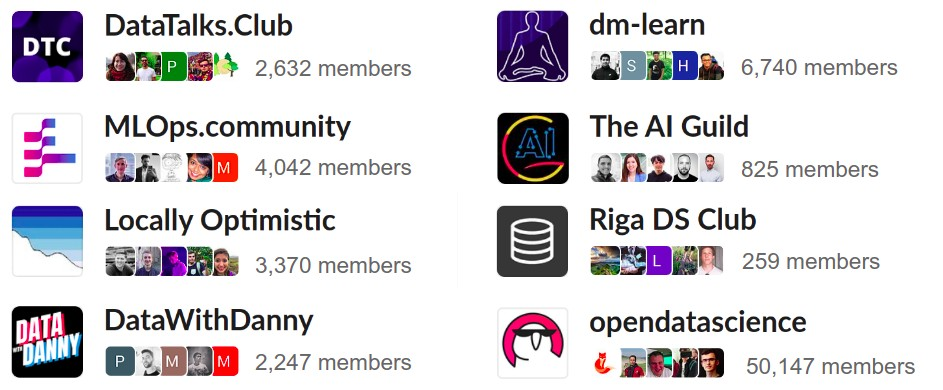
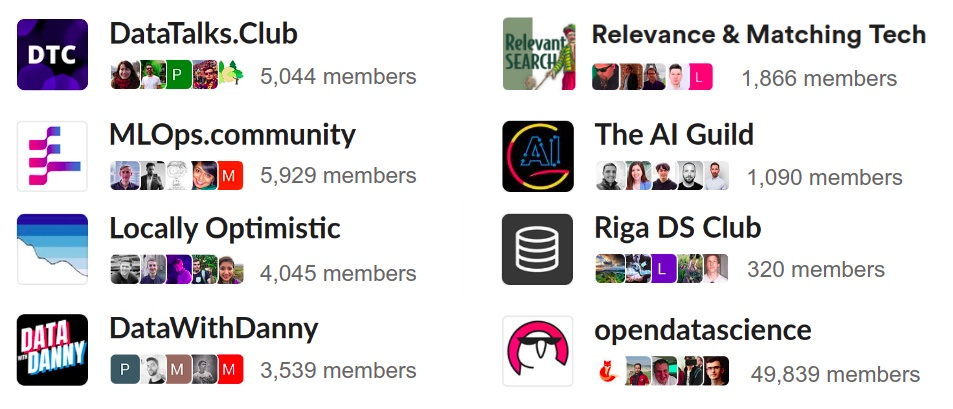
slack communities

diff --git a/_posts/2020-12-23-slack-communities.md b/_posts/2020-12-23-slack-communities.md
@@ -47,11 +47,13 @@ This community is founded by [Danny Ma](https://www.linkedin.com/in/datawithdann
 
 Instructions for joining: [datawithdanny.com](https://datawithdanny.com/){:target="_blank"}.
 
-## 5. DataMuni (dm-learn)
+## 5. Relevance & Matching Tech
 
-This community is created by [Abhishek Thakur](https://www.linkedin.com/in/abhi1thakur/){:target="_blank"}, the World's first 4x Kaggle Grandmaster. You can talk about data science and machine learning topics there. There are more than 6,000 community members.
+This is the place for discussing practical aspects of search and recommender systems. 
+It welcomes engineers, data scientists, and product managers who want to learn more about it and solve 
+tough problems in this space. 
 
-To join, go to [datamuni.com](https://datamuni.com/){:target="_blank"} and click on "Join Slack".
+To join, go to [http://o19s.com/slack](http://o19s.com/slack){:target="_blank"}.
 
 ## 6. The AI Guild
 
@@ -82,3 +84,5 @@ To join, go to [ods.ai/join-community](https://ods.ai/join-community){:target="_
 
 Happy slacking!
 
+
+_Updated on 2021.08.24._
